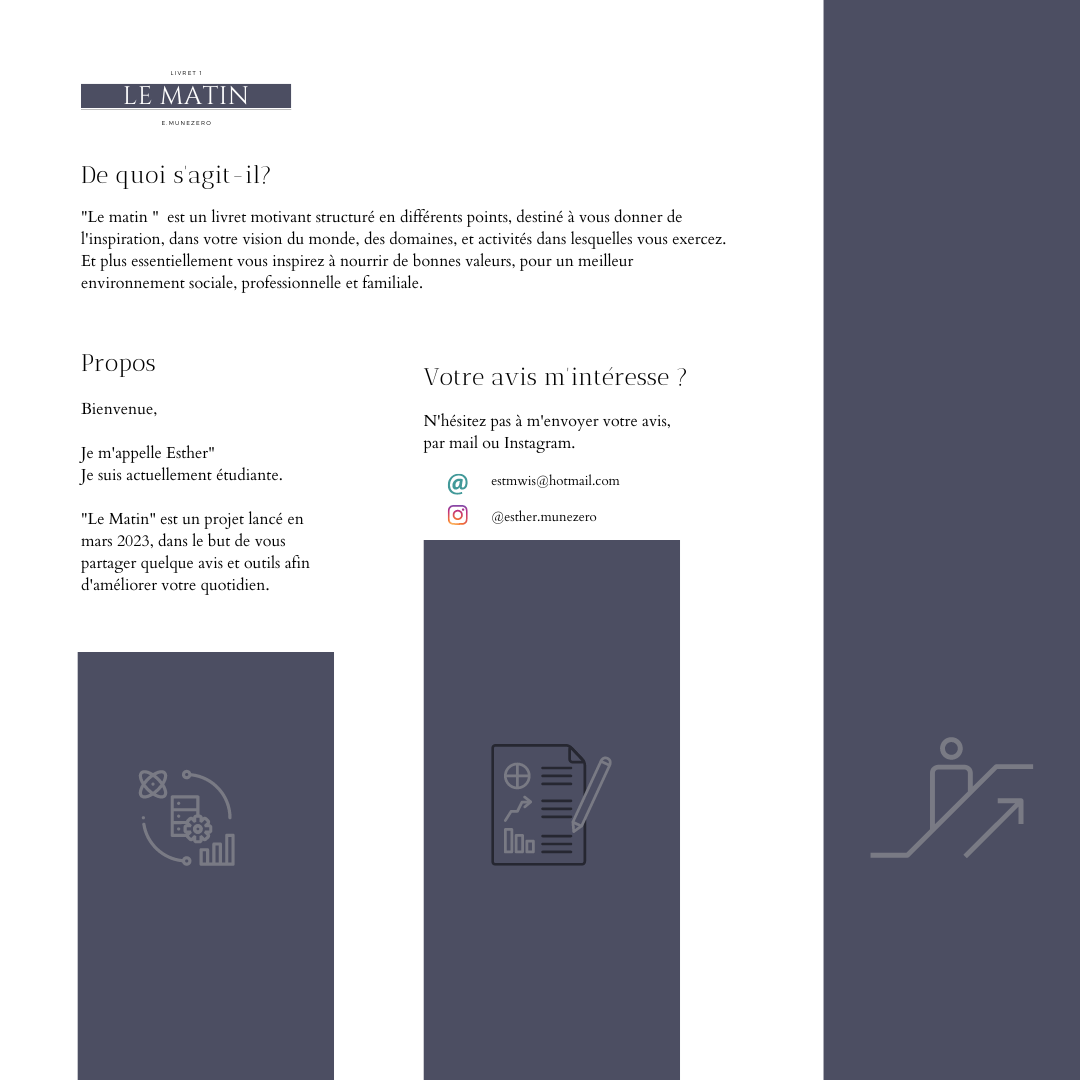
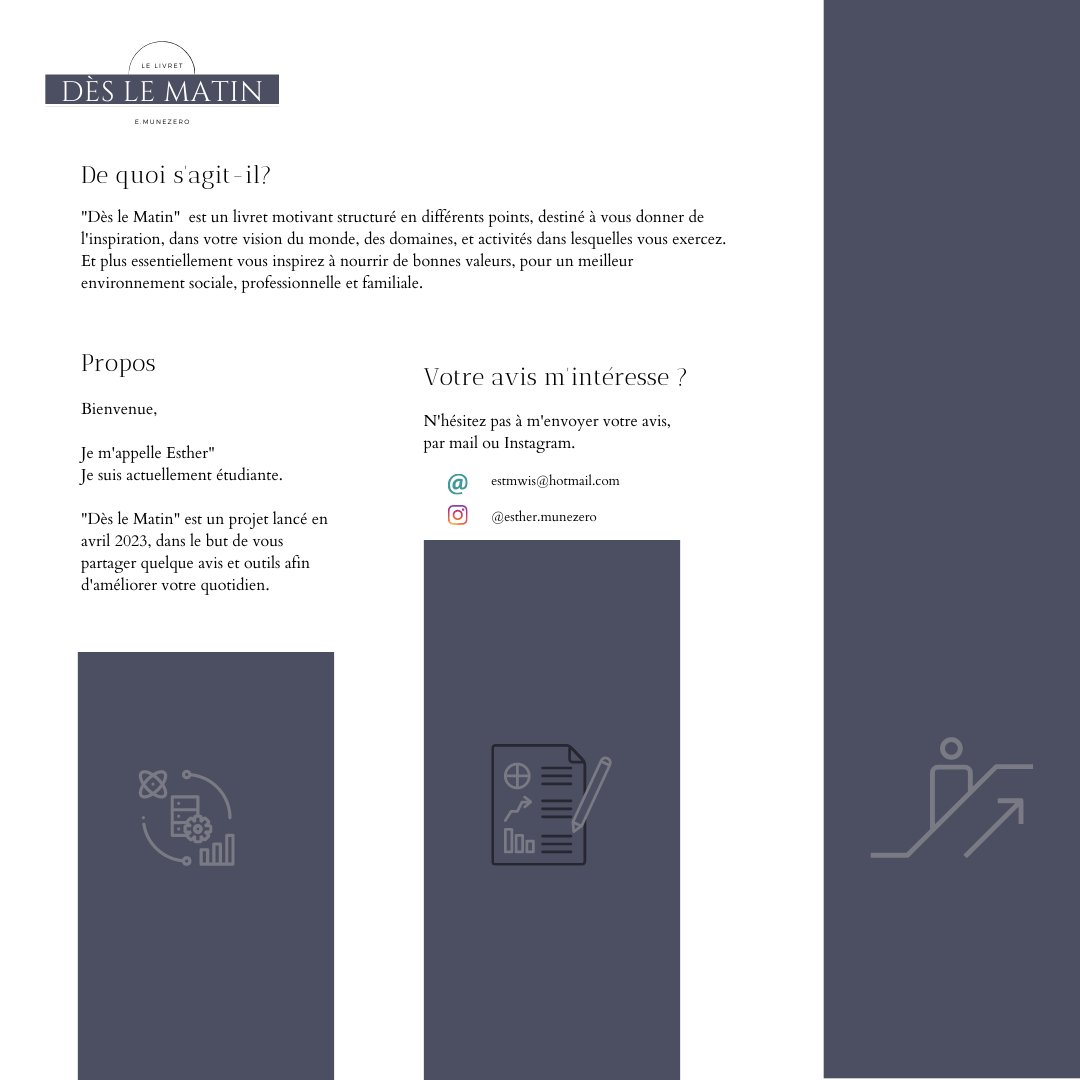
Add files via upload

Changed region(s): [[0.0917, 0.1833, 0.6417, 0.2139], [0.0306, 0.0611, 0.275, 0.1222], [0.0917, 0.4583, 0.3056, 0.5194]]

diff --git a/deslematin.html b/deslematin.html
@@ -1,0 +1,71 @@
+<!DOCTYPE html>
+<!doctype html>
+<html lang="fr">
+
+<head>
+    <meta charset="utf-8">
+    <meta name="viewport" content="width=device-width, initial-scale=1">
+    <title>E.M Dés Le Matin</title>
+    <link rel="icon" type="image/png" sizes="16x16" href="logoEM.png">
+    <link rel="stylesheet" href="style.css">
+
+</head>
+
+<body>
+    <style>
+        body {
+            width: 100%;
+            height: 100%;
+            margin: 0;
+            display: flex;
+            flex-direction: column;
+            justify-content: center;
+            align-items: center;
+
+        }
+    </style>
+
+
+
+
+    <div class="tes">
+
+
+        <div class="slide_img2">
+
+
+            <div class="texto2" onclick="grand()"><img id="slides1" src="LE MATIN/1.png" alt="Images0"></div>
+
+
+            <div class="texto2" onclick="grand()"><img id="slides2" src="LE MATIN/2.png" alt="Images1"></div>
+
+            <div class="texto2" onclick="grand()"><img id="slides3" src="LE MATIN/3.png" alt="Images"></div>
+
+            <div class="texto2" onclick="grand()"><img id="slides4" src="LE MATIN/4.png" alt="Images3"></div>
+
+        </div>
+
+    </div>
+
+
+
+    <div class=" navbar foot">
+        <div class="footmenu">
+
+            <a href="" style="color: rgb(13, 13, 14); margin: 10px;"> MENTIONS LÉGALES</a>
+
+            <a style="color: rgb(13, 13, 14);margin: 10px;"> TOUT DROITS RESERVÉS©EMUNEZERO.COM
+
+
+
+        </div>
+
+    </div>
+
+
+
+
+    <script src="move.js"> </script>
+</body>
+
+</html>
